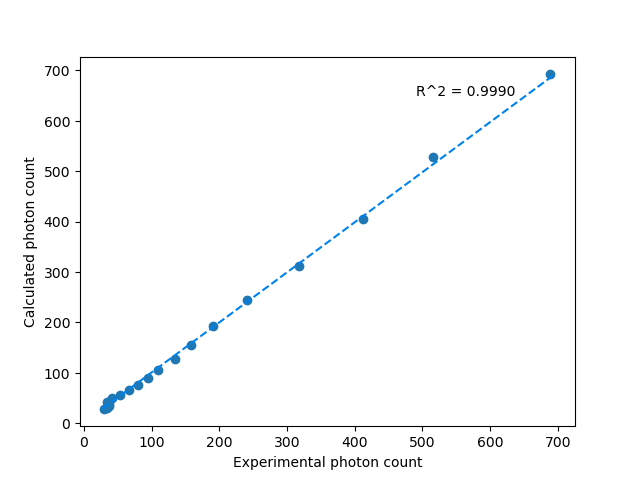
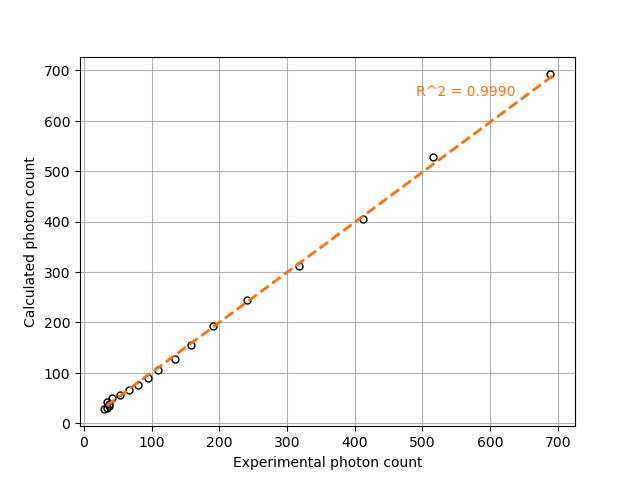
Rpt examples

diff --git a/examples/rpt/parameters_tuning/rpt_parameter_tuning_plot.py b/examples/rpt/parameters_tuning/rpt_parameter_tuning_plot.py
@@ -1,0 +1,64 @@
+"""
+Name   : rpt_parameter_tuning_plot.py
+Author : Amishga Alphonius
+Date   : 23-06-2022
+Desc   : Generates plots with the data resulting from the parameter tuning example
+"""
+
+from sklearn.linear_model import LinearRegression
+from sklearn.metrics import r2_score
+import numpy as np
+import matplotlib.pyplot as plt
+import csv
+import sys
+
+
+header = []
+rows = []
+position_x = []
+exp_counts = []
+cal_counts = []
+
+# Verify if an argument was added when running the script
+assert(len(sys.argv)>1), "The .csv containing the data to be read wasn't specified as an argument when running the script."
+	
+
+# Opening and reading .csv file, and converting positions from 'm' to 'cm'
+with open("counts_exp.csv",'r') as data_file:
+	csvReader = csv.reader(data_file, delimiter=',')
+	header = next(csvReader)
+	for row in csvReader:
+		exp_counts.append(float(row[0]))
+data_file.close()
+
+with open(sys.argv[1],'r') as data_file:
+	csvReader = csv.reader(data_file, delimiter=',')
+	header = next(csvReader)
+	for row in csvReader:
+		position_x.append(float(row[0])*100)
+		cal_counts.append(float(row[4]))
+data_file.close()
+
+cal_counts = np.array(cal_counts)
+exp_counts = np.array(exp_counts)
+
+
+# Generate plots
+# Experimental and calculated counts comparison
+plt.plot(position_x, cal_counts, linestyle="dashed", color="#fc710d", linewidth=2, label="tuned parameters")
+plt.plot(position_x, exp_counts, linestyle="none", color="#000000", marker='o', ms=5, mfc="None", label="experimental")
+plt.xlabel("Photon count")
+plt.ylabel("x (cm)")
+plt.legend()
+plt.grid(True)
+plt.show()
+
+# Linear fit graph
+plt.plot(exp_counts, cal_counts, linestyle="None", color="#000000", marker='o', ms=5, mfc="None")
+cal_counts, exp_counts = cal_counts.reshape(-1,1), exp_counts.reshape(-1,1)
+plt.plot(cal_counts, LinearRegression().fit(cal_counts, exp_counts).predict(cal_counts), linestyle="dashed", color="#fc710d", linewidth=2)
+plt.annotate("R^2 = {:.4f}".format(r2_score(cal_counts, exp_counts)), (490, 650), color="#fc710d")
+plt.xlabel("Experimental photon count")
+plt.ylabel("Calculated photon count")
+plt.grid(True)
+plt.show()

diff --git a/examples/rpt/parameters_tuning/rpt_lethe_nomad.py b/examples/rpt/parameters_tuning/rpt_lethe_nomad.py
@@ -11,7 +11,6 @@ import sys
 
 # Path to files/application
 path = "./"  # Current directory
-path_to_rpt_3d = "/home/          /lethe/build/applications/rpt_3d/rpt_3d"   # TO FILL OUT
 
 # Get new calculated parameters
 tmpfile = sys.argv[1]  # Temporary file for new values
@@ -42,7 +41,7 @@ with open(tmp_lethe_parameter_file, "w") as file:  # Write .prm with new paramet
     file.write("\n".join(filestr))
 
 # Call rpt_3d executable
-os.system(path_to_rpt_3d + " " + tmp_lethe_parameter_file)
+os.system("rpt_3d " + tmp_lethe_parameter_file)
 
 # Delete temporary parameter files
 os.remove(tmp_lethe_parameter_file)

diff --git a/doc/source/examples/rpt/photon-count-calculation-in-a-cylindrical-vessel/photon-count-calculation-in-a-cylindrical-vessel.rst b/doc/source/examples/rpt/photon-count-calculation-in-a-cylindrical-vessel/photon-count-calculation-in-a-cylindrical-vessel.rst
@@ -17,7 +17,7 @@ Features
 
 :raw-html:`<br />`
 
-Locations of files used in the example
+Locations of Files Used in the Example
 ---------------------------------------
 - Parameter file: ``examples/rpt/count_calculation/rpt_count_calculation.prm``
 - File containing detector positions: ``examples/rpt/count_calculation/positions.detector``
@@ -29,7 +29,7 @@ Locations of files used in the example
 
 :raw-html:`<br />`
 
-Description of the case
+Description of the Case
 -------------------------
 In this example, four different sets of particle positions are studied for a given detector position. The four different scenarios studied in this example are :
 
@@ -123,7 +123,7 @@ where
 
 :raw-html:`<br />`
 
-Parameter file
+Parameter File
 ----------------
 
 RPT Parameters
@@ -180,7 +180,7 @@ In the subsection ``detector parameters``, we specify the file that contains two
 
 :raw-html:`<br />`
 
-Running the simulation
+Running the Simulation
 ----------------------------------
 Launching the simulation is as simple as specifying the executable name and the parameter file. Assuming that the ``rpt_3d`` executable is within your path, the simulation can be launched by typing:
 
@@ -206,7 +206,7 @@ To visualize the data and obtain the figures shown below, a python script (``rpt
     You may use the ``rpt_count_calculation_plot.py`` script to plot any other set of data saved in a ``.csv`` file format.
 
 
-Scenario 1: Horizontal translation of a particle along the x-axis 
+Scenario 1: Horizontal Translation of a Particle Along the X-Axis
 ~~~~~~~~~~~~~~~~~~~~~~~~~~~~~~~~~~~~~~~~~~~~~~~~~~~~~~~~~~~~~~~~~~
 .. image:: images/counts_along_x-axis.png
     :alt: Results for the horizontal translation of a particle along the x-axis (Scenario 1)
@@ -216,7 +216,7 @@ Scenario 1: Horizontal translation of a particle along the x-axis
 
 In the figure shown above, as one would expect, as the particle approaches the detector, the photon count grows. Such evolution may be explained by the efficiency of the detector getting greater as the particle advances toward the detector's exposed surface. Since the photon's path length in the vessel decreases, :math:`f_a(\alpha, \theta)` increases, and therefore the efficiency gets greater. In addition to that, as the particle approaches the detector, the solid angle gets greater, the product :math:`\omega(\alpha) \omega(\theta)` increases, making the efficiency increase also.
 
-Scenario 2: Horizontal translation of a particle along the y-axis 
+Scenario 2: Horizontal Translation of a Particle Along the Y-Axis
 ~~~~~~~~~~~~~~~~~~~~~~~~~~~~~~~~~~~~~~~~~~~~~~~~~~~~~~~~~~~~~~~~~~
 
 .. figure:: images/counts_along_y-axis_case1.png
@@ -269,7 +269,7 @@ The last case studied (Case IV) shows the evolution of the photon count when :ma
 Coming back to the Case I figure, we can see that photon count follows a pattern similar to the one seen in Case IV. We may interpret from it that :math:`f_d(\alpha, \theta)` varies very little as opposed to :math:`f_a(\alpha, \theta)` that fluctuates greatly. The local minimal values, in this case, are at :math:`y \approx -6` cm and :math:`y \approx 6` cm, as opposed to :math:`y \approx -4.6` cm and :math:`y \approx -4.6` cm for the fourth case. This is due to the change in the value of :math:`\mu_d`. :math:`f_d(\alpha,\theta)` function of :math:`y` increases at a slower rate, making the minimums further way from the center. To summarize, the fluctuations seen in the Case I figure is the result of the combined influence of the values of the attenuation coefficients, the variation of the path lengths of the photon in the vessel and the detector, and the evolution of the weighting factors.
 
 
-Scenario 3: Vertical translation of a particle along the z-axis
+Scenario 3: Vertical Translation of a Particle Along the Z-Axis
 ~~~~~~~~~~~~~~~~~~~~~~~~~~~~~~~~~~~~~~~~~~~~~~~~~~~~~~~~~~~~~~~~
 .. image:: images/counts_along_z-axis.png
     :alt: Results for the vertical translation of a particle along the z-axis (Scenario 3)
@@ -280,7 +280,7 @@ Scenario 3: Vertical translation of a particle along the z-axis
 Similar to the first scenario, as the particle approaches the detector, we notice an increase in photon count. The photon count reaches its maximal value at around :math:`z = 7.1` cm, which is close to the center of the detector's face.
 
 
-Scenario 4: Particle going across the vessel on a diagonal line
+Scenario 4: Particle Going Across the Vessel on a Diagonal Line
 ~~~~~~~~~~~~~~~~~~~~~~~~~~~~~~~~~~~~~~~~~~~~~~~~~~~~~~~~~~~~~~~~~
 .. image:: images/counts_across_vessel_on_a_diagonal_line.png
     :alt: Results for the particle going across the vessel on a diagonal line (Scenario 4)
@@ -290,10 +290,10 @@ Scenario 4: Particle going across the vessel on a diagonal line
 
 After analyzing the past three scenarios, we get much-expected results for this scenario. As seen in the first scenario, the photon count varies greatly with the :math:`x` coordinate of the position vector of the particle. That is because the path of the photon inside the vessel gets longer when :math:`x` gets smaller. In other words, the ray is more attenuated by the material inside the vessel before getting to the detector, therefore the photon count gets smaller. Consequently, even though the particle is further away from the detector if the :math:`x` coordinate of the tracer's position is closer to the detector's exposed surface, the photon count could get greater and that's what we see on the figure above for high :math:`z` values.
 
-Sensitivity analysis of the Monte Carlo method
+Sensitivity Analysis of the Monte Carlo Method
 ~~~~~~~~~~~~~~~~~~~~~~~~~~~~~~~~~~~~~~~~~~~~~~~~~~
 
-Looking back at the second scenario's results (Case A), we notice that the counts are a little scattered. By increasing the number of Monte Carlo iterations (:math:`N`), we get much smoother results as seen in the Case C figure. In the Case C figure, we have multiplied the number of Monte Carlo iterations by a factor of :math:`10`. When calculating the efficiency using the Monte Carlo method with a large :math:`N`, more "weight" is accorded to the most probable points, since they appear more often in the sum. This makes the least probable points negligible. Consequently, we obtain smoother results. In the Case B figure, :math:`N` was divided by a factor of :math:`10`. As expected, in this figure, we see much more scattering.
+Looking back at the second scenario's results (Case A), we notice that the counts are a little scattered. This is caused by the stochastic nature of the Monte Carlo method. Increasing the number of Monte Carlo iterations (:math:`N`), generates much smoother results as seen in the Case C figure where we have multiplied :math:`N` by a factor of :math:`10`. By increasing :math:`N`, we're covering more of the solid angle, making the simulation more representative of the physical system. Therefore, we see a better continuity in the photon counts. In the Case B figure, :math:`N` was divided by a factor of :math:`10`. As expected, in this figure, we see much more scattering.
 
 +---------------------------------------------------------------------------------------------------------------------------------------------------------------+
 |  .. figure:: images/counts_along_y-axis_case1.png                                                                                                             |

diff --git a/doc/source/examples/rpt/tuning-parameters-with-nomad/tuning-parameters-with-nomad.rst b/doc/source/examples/rpt/tuning-parameters-with-nomad/tuning-parameters-with-nomad.rst
@@ -23,7 +23,7 @@ Features
 
 :raw-html:`<br />`
 
-Locations of files used in the example
+Locations of Files Used in the Example
 ---------------------------------------
 - Parameter file: ``examples/rpt/parameters_tuning/rpt_parameters.prm``
 - Python script for NOMAD: ``examples/rpt/parameters_tuning/rpt_lethe_nomad.py``
@@ -35,7 +35,7 @@ Locations of files used in the example
 
 :raw-html:`<br />`
 
-Description of the case
+Description of the Case
 -------------------------
 In this example, using the NOMAD optimization software and the experimental data, we are going to tune the three unknowns (:math:`R, \tau`, and :math:`\mu_r`) of our studied system.
 
@@ -53,7 +53,7 @@ As discussed in the previous example (`Photon Count Calculation in a Cylindrical
     C = \frac{T \nu R \phi \xi_i (\mathbf{X})}{1 + \tau \nu R \phi \xi_i (\mathbf{X})}
 
 
-where,
+where
 
 - :math:`T` is the sampling time [:math:`s`];
 - :math:`\nu` is the number of :math:`\gamma`-rays emitted by each disintegration;
@@ -98,10 +98,10 @@ where :math:`\mu_d` is the detector's attenuation coefficient and :math:`d(\alph
 
 :raw-html:`<br />`
 
-Parameter files
+Parameter Files
 ----------------
 
-*rpt_parameters.prm* file
+*rpt_parameters.prm* File
 ~~~~~~~~~~~~~~~~~~~~~~~~~~~
 
 RPT Parameters
@@ -133,7 +133,7 @@ As seen in the previous example, in the subsection ``rpt parameters``, we define
     ``verbosity`` **must** be set to **quiet** since NOMAD gets the cost function value from the terminal for its MADS algorithm.
 
 
-Parameter tuning
+Parameter Tuning
 ^^^^^^^^^^^^^^^^^^
 
 In the subsection ``parameter tuning``, we enable parameters tuning, we specify a type of cost function and define a set of experimental counts to compare with the calculated counts. Parameters used for the tuning of the model parameters are described in the `Parameter tuning <../../../parameters/rpt/parameter_tuning.html>`_ documentation page.
@@ -171,7 +171,7 @@ In the subsection ``detector parameters``, we specify the file that contains the
 
 :raw-html:`<br />`
 
-*param_nomad.txt* file
+*param_nomad.txt* File
 ~~~~~~~~~~~~~~~~~~~~~~~~~~
 
 The ``param_nomad.txt`` file is used when running NOMAD. This file provides initial guess and constraints when defining the optimization problem. These parameters are defined using specific keywords as explained in the `NOMAD User Guide <https://nomad-4-user-guide.readthedocs.io/en/latest/GettingStarted.html#provide-parameters>`_.
@@ -197,28 +197,21 @@ The ``param_nomad.txt`` file is used when running NOMAD. This file provides init
                                                           # the current solution ( SOL ) and the objective
 
 .. note::
-    In this example, we use version 4.2.0 of NOMAD. You can get it by clicking on the **Download** button on of `the software's web page <https://www.gerad.ca/en/software/nomad>`_ and filling out the required information. The steps to follow for the installation are specified in the `NOMAD 4 User Guide <https://nomad-4-user-guide.readthedocs.io/en/latest/Installation.html>`_.
+    In this example, we use version 4.2.0 of NOMAD. You can get it by clicking on the **Download** button of `the software's web page <https://www.gerad.ca/en/software/nomad>`_ and filling out the required information. The steps to follow for the installation are specified in the `NOMAD 4 User Guide <https://nomad-4-user-guide.readthedocs.io/en/latest/Installation.html>`_.
 
 
 :raw-html:`<br />`
 
-Running the simulation
+Running the Simulation
 ----------------------------------
 
-If it's the **first time** you're running this example, it is important to open the ``rpt_lethe_nomad.py`` script and complete the path to the ``rpt_3d`` executable on the :math:`14^{th}` line.
-
-.. attention::
-    If you don't complete the path to the ``rpt_3d`` executable on the :math:`14^{th}` line of the ``rpt_lethe_nomad.py`` script you won't be able to tune your parameters.
-
-Once you've completed the line mentioned above in the ``rpt_lethe_nomad.py`` script, you may run NOMAD by typing :
+Assuming that ``rpt_3d`` and ``nomad`` executables are within your path, you may run NOMAD by typing :
 
 .. code-block:: text
 
-    /home/myUserName/PathToNomad param_nomad.txt
+    nomad param_nomad.txt
 
-
-NOMAD will then execute the Python script (``rpt_lethe_nomad.py``) which is specified in the ``param_nomad.txt`` file. The Python script ``rpt_nomad_lethe.py`` proceeds the values of parameters to tune given by NOMAD, modifies the parameter file for Lethe, and runs the rpt_3d application. ``rpt_3d`` of Lethe executes the Monte Carlo ray model and calculates a cost function which is caught by NOMAD through the terminal. NOMAD executes its MADS algorithm and generates a new set of parameters until a terminating criterion is reached.
-
+NOMAD will then execute the Python script (``rpt_lethe_nomad.py``) which is specified in the ``param_nomad.txt`` file. The Python script ``rpt_nomad_lethe.py`` proceeds the values of parameters to tune given by NOMAD, modifies the parameter file for Lethe, and runs the ``rpt_3d`` application. ``rpt_3d`` of Lethe executes the Monte Carlo ray model and calculates a cost function which is caught by NOMAD through the terminal. NOMAD executes its MADS algorithm and generates a new set of parameters until a terminating criterion is reached.
 
 :raw-html:`<br />`
 
@@ -260,7 +253,7 @@ Second, in the ``parameter tuning`` subsection, the ``tuning`` parameter was set
 
 Lastly, in the ``detector parameters`` subsection, the values of the parameters that were tuned (``dead time``, ``activity``, and ``attenuation coefficient reactor``) were replaced with the ones NOMAD gave us.
 
-In the figures below, we can see that there is very little difference between the experimental counts and the calculated counts with the tuned parameters. In fact, the linear regression between the experimental and calculated photon counts give us a R² value of 0.9990 as seen in the *Linear fit* figure.
+To visualize the data and obtain the figures shown below, a python script (``rpt_parameter_tuning_plot.py``) is provided. When running the script, the name of the ``.csv`` file containing the calculated counts must be specified as an argument. In the *Experimental and calculated counts comparison* figure, we can see very little difference between the experimental counts and the calculated counts with the tuned parameters. The linear regression between the experimental and calculated photon counts gives us an R² value of 0.9990 as seen in the *Linear fit* figure. This confirms the validity of the tuned parameters.
 
 .. figure:: images/results.png
     :alt: Experimental and calculated counts comparison
